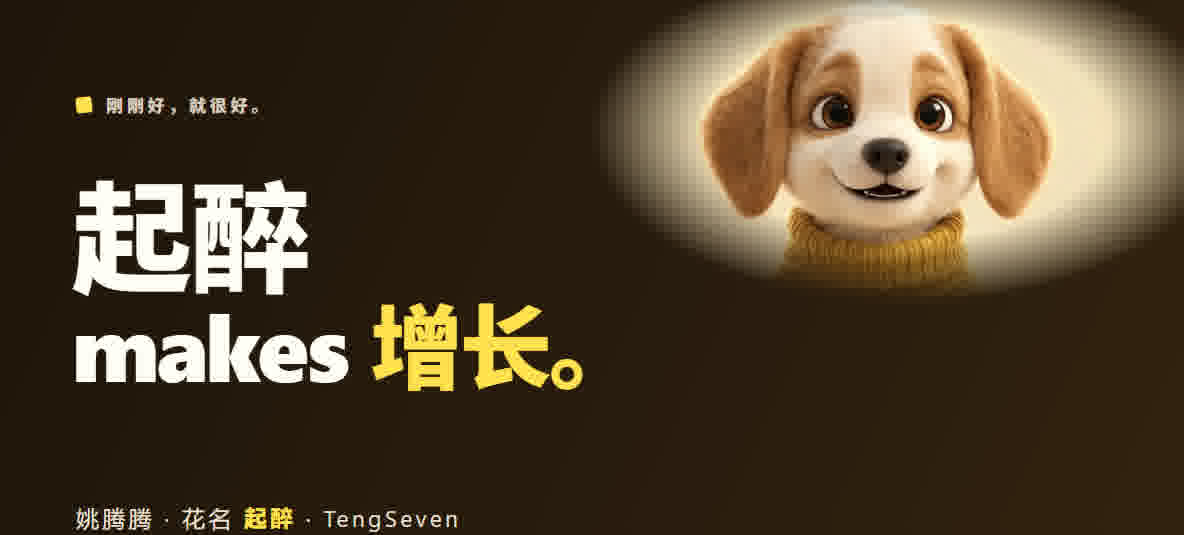
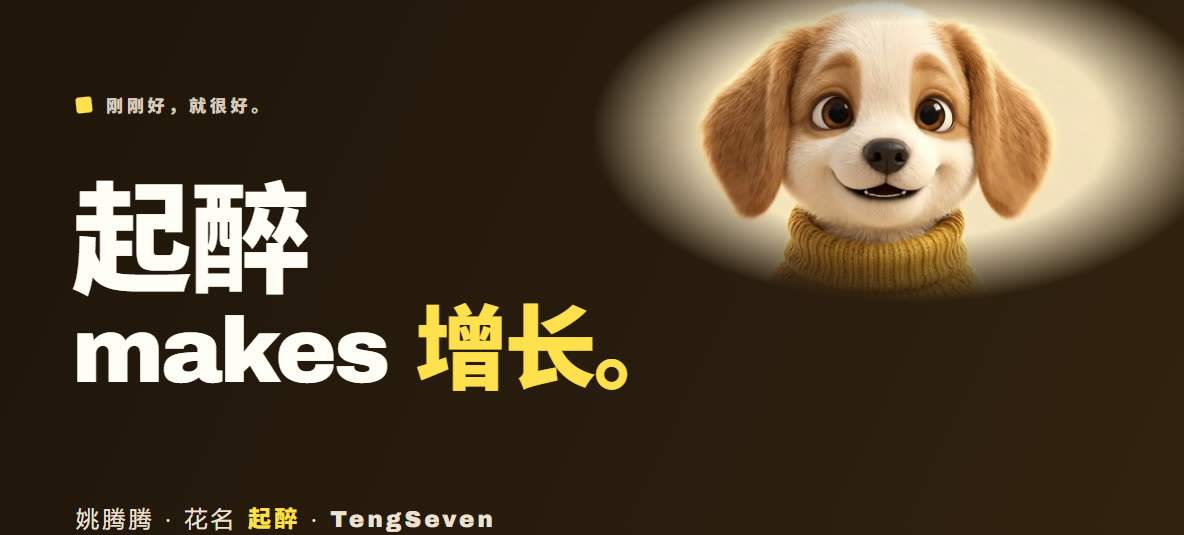
polish: 获奖级视觉冲刺 — 平板竖屏布局/移动端遮罩/拉丁展示字体/数字格stagger/卡片微倾/点击复制/追光与skip-link

diff --git a/index.html b/index.html
@@ -17,6 +17,8 @@
 /* T1 展示字体：Noto Sans SC Black 子集（SIL OFL 1.1，11.8KB），只收录展示位汉字；
    拉丁字母与数字刻意不在子集内 → 自动落到平台重黑（Win: Segoe UI Black / Mac: SF Black） */
 @font-face{font-family:"QZ Display";src:url("fonts/qz-display-900.woff2") format("woff2");font-weight:800 900;font-display:swap}
+/* 拉丁展示字体（Archivo Black，SIL OFL 1.1）：统一 makes/TengSeven/数字 在各平台的 900 黑体字形 */
+@font-face{font-family:"Archivo Black";src:url("fonts/archivo-black-latin.woff2") format("woff2");font-weight:800 900;font-display:swap}
 :root{
   --paper:#FAEFD6;
   --cream:#F2E4C9; /* 与 3D 小狗视频背景同族暖奶油 */
@@ -30,7 +32,7 @@
   --line-strong:rgba(26,26,26,.16);
   --ghost:rgba(26,26,26,.13);
   --sans:"Segoe UI","PingFang SC","HarmonyOS Sans SC","MiSans","Microsoft YaHei",system-ui,-apple-system,sans-serif;
-  --display:"QZ Display","Segoe UI",-apple-system,BlinkMacSystemFont,"PingFang SC","Microsoft YaHei",sans-serif;
+  --display:"QZ Display","Archivo Black","Segoe UI",-apple-system,BlinkMacSystemFont,"PingFang SC","Microsoft YaHei",sans-serif;
   --mono:ui-monospace,"Cascadia Code","SF Mono",Consolas,"PingFang SC","Microsoft YaHei",monospace;
   --ease:cubic-bezier(.16,1,.3,1);
   --maxw:1240px;
@@ -63,6 +65,10 @@ img{display:block}
 mark{background:linear-gradient(100deg,transparent 1%,var(--hl) 4%,var(--hl) 96%,transparent 99%);color:var(--ink);padding:0 .12em;border-radius:2px;-webkit-box-decoration-break:clone;box-decoration-break:clone}
 .ic{width:19px;height:19px;stroke:var(--ink);flex-shrink:0}
 .ic-badge{width:30px;height:30px}
+.skip-link{position:fixed;left:16px;top:-64px;z-index:300;background:var(--hl);color:var(--ink);font-weight:800;padding:10px 18px;border-radius:8px;transition:top .25s var(--ease)}
+.skip-link:focus-visible{top:16px}
+.copy-toast{position:fixed;left:50%;bottom:34px;transform:translate(-50%,16px);z-index:300;background:var(--ink);color:var(--paper);font-size:13.5px;font-weight:700;padding:10px 20px;border-radius:99px;opacity:0;transition:opacity .35s ease,transform .35s var(--ease);pointer-events:none}
+.copy-toast.show{opacity:1;transform:translate(-50%,0)}
 /* 展示位统一 900 重黑（汉字走 QZ Display 子集，拉丁/数字走平台重黑） */
 .hero-title,.tabs a,.prod-logo h3,.xp-role,.el-name,.nnum,.adv-num,.foot-ghost{font-family:var(--display)}
 .nw{white-space:nowrap}
@@ -156,9 +162,10 @@ mark{background:linear-gradient(100deg,transparent 1%,var(--hl) 4%,var(--hl) 96%
   padding:clamp(26px,3.6vw,52px);
   display:grid;grid-template-columns:5fr 6fr;gap:clamp(22px,3.6vw,56px);align-items:center;
   position:relative;overflow:hidden;
+  transform:translateY(var(--lift,0px)) perspective(900px) rotateX(var(--rx,0deg)) rotateY(var(--ry,0deg));
   transition:transform .35s var(--ease),box-shadow .35s;
 }
-.prod-card:hover{transform:translateY(-5px);box-shadow:0 24px 60px -30px rgba(26,26,26,.25)}
+.prod-card:hover{--lift:-5px;box-shadow:0 24px 60px -30px rgba(26,26,26,.25)}
 .prod-card .vig{width:100%;aspect-ratio:16/11;object-fit:contain;transform:rotate(-1.2deg);transition:transform .45s var(--ease)}
 .prod-card:hover .vig{transform:rotate(0deg) scale(1.02)}
 .prod-card h3{position:relative;padding-bottom:12px}
@@ -189,6 +196,10 @@ mark{background:linear-gradient(100deg,transparent 1%,var(--hl) 4%,var(--hl) 96%
 }
 .ncell{padding:clamp(16px,2vw,30px) clamp(10px,1.6vw,26px);border-left:1px solid var(--line)}
 .ncell:first-child{border-left:none;padding-left:clamp(12px,2vw,28px)}
+/* 数字格逐格入场（v4.6.4）：卡片 reveal 后按序浮现 */
+.js .num-card .ncell{opacity:0;transform:translateY(22px);transition:opacity .7s ease,transform .7s var(--ease);transition-delay:calc(var(--i,0)*70ms)}
+.js .num-card.in .ncell{opacity:1;transform:none}
+.ncell:nth-child(2){--i:1}.ncell:nth-child(3){--i:2}.ncell:nth-child(4){--i:3}.ncell:nth-child(5){--i:4}.ncell:nth-child(6){--i:5}
 .nnum{font-weight:900;font-size:clamp(34px,4.2vw,64px);line-height:1;letter-spacing:-.02em;white-space:nowrap;font-variant-numeric:tabular-nums;font-size:clamp(34px,4.2cqw,64px)} /* 后一声明覆盖：支持容器查询单位的浏览器按卡片实宽取值 */
 .nnum em{
   font-style:normal;font-size:.36em;margin-left:3px;padding:.06em .18em;border-radius:4px;
@@ -197,7 +208,8 @@ mark{background:linear-gradient(100deg,transparent 1%,var(--hl) 4%,var(--hl) 96%
 .nlabel{margin-top:12px;font-family:var(--sans);font-size:12.5px;color:var(--gray);letter-spacing:.05em;white-space:nowrap}
 .peek{position:relative;height:clamp(120px,15vh,170px);margin-top:clamp(14px,2.2vh,24px)}
 .peek-line{position:absolute;left:0;right:0;bottom:8px;width:100%;height:30px}
-.peek .pup-3d{position:absolute;right:10%;bottom:14px;width:clamp(150px,15vw,220px);-webkit-mask-image:radial-gradient(ellipse 52% 52% at 50% 55%,#000 42%,transparent 78%);mask-image:radial-gradient(ellipse 52% 52% at 50% 55%,#000 42%,transparent 78%)}
+.peek .pup-3d{position:absolute;right:10%;bottom:14px;width:clamp(150px,15vw,220px);-webkit-mask-image:radial-gradient(ellipse 52% 52% at 50% 55%,#000 42%,transparent 78%);mask-image:radial-gradient(ellipse 52% 52% at 50% 55%,#000 42%,transparent 78%);animation:pupBob 3.8s ease-in-out 1s infinite}
+@keyframes pupBob{0%,100%{transform:translateY(0)}50%{transform:translateY(-7px)}}
 
 /* ---------- 经历 ---------- */
 .xp-intro{max-width:36em;color:var(--ink-2);font-size:clamp(16px,1.5vw,17.5px);margin-bottom:clamp(36px,6vh,60px)}
@@ -228,9 +240,10 @@ mark{background:linear-gradient(100deg,transparent 1%,var(--hl) 4%,var(--hl) 96%
 .adv-card{
   background:var(--card);border:1px solid var(--line-strong);border-radius:18px;
   padding:clamp(20px,2.4vw,32px);
+  transform:translateY(var(--lift,0px)) perspective(900px) rotateX(var(--rx,0deg)) rotateY(var(--ry,0deg));
   transition:transform .3s var(--ease),box-shadow .3s;
 }
-.adv-card:hover{transform:translateY(-4px) rotate(-.4deg);box-shadow:0 18px 44px -24px rgba(26,26,26,.25)}
+.adv-card:hover{--lift:-4px;transform:translateY(-4px) rotate(-.4deg) perspective(900px) rotateX(var(--rx,0deg)) rotateY(var(--ry,0deg));box-shadow:0 18px 44px -24px rgba(26,26,26,.25)}
 /* 序号改描边数字（与幽灵序号同一套语言），黄色只留给重点字（stage v4.6 K） */
 .adv-num{
   font-weight:900;font-size:clamp(40px,3.4vw,54px);line-height:1;display:inline-block;
@@ -260,7 +273,7 @@ mark{background:linear-gradient(100deg,transparent 1%,var(--hl) 4%,var(--hl) 96%
 .el-row{
   display:flex;align-items:center;gap:clamp(16px,2.6vw,30px);
   padding:clamp(16px,2.6vh,26px) 6px;border-bottom:1px solid var(--line-strong);
-  transition:background .25s;
+  transition:background .25s;cursor:pointer;
 }
 .el-row:first-child{border-top:1px solid var(--line-strong)}
 .el-row:hover{background:var(--card)}
@@ -283,8 +296,8 @@ footer{padding-block:clamp(60px,10vh,110px) 40px;position:relative;overflow:hidd
 .foot-line .hl-text{font-weight:800;color:var(--ink);background:linear-gradient(100deg,transparent 1%,var(--hl) 4%,var(--hl) 96%,transparent 99%);padding:0 .3em}
 
 /* ---------- 动效 ---------- */
-.js .reveal{opacity:0;transform:translateY(26px);transition:opacity .8s ease,transform .8s var(--ease);transition-delay:var(--d,0s)}
-.js .reveal.in{opacity:1;transform:none}
+.js .reveal{opacity:0;translate:0 26px;transition:opacity .8s ease,translate .8s var(--ease);transition-delay:var(--d,0s)}
+.js .reveal.in{opacity:1;translate:0 0}
 /* 荧光笔随浮现从左划过（只动 background-size，一次性，stage v4.6 M） */
 .js .reveal mark{background-size:0% 100%;background-repeat:no-repeat;transition:background-size .9s var(--ease) .35s}
 .js .reveal.in mark{background-size:100% 100%}
@@ -369,6 +382,18 @@ html.is-booting{overflow:hidden}
 @media (max-width:1366px){.hero-stats dd{font-size:20px}.hero-stats div{padding:0 14px}}
 .hero .wrap.is-rolling{will-change:transform,opacity}
 
+/* ---------- 平板竖屏（761px+ 且竖屏）：上文下狗，避免白字压亮毛 ---------- */
+@media (min-width:761px) and (max-aspect-ratio:1/1){
+  .hero{justify-content:flex-start;padding-top:110px;padding-bottom:64px}
+  .hero .wrap{grid-template-columns:1fr 1fr;align-items:start;gap:28px 44px}
+  .hero-col-l,.hero-col-r{grid-column:auto}
+  .hero-col-r{padding-top:clamp(20px,5vh,60px)}
+  .hero-title{font-size:clamp(44px,7.6vw,84px)}
+  .pup-bg video{width:150vw;height:auto;left:50%;top:auto;bottom:-6vh;transform:translateX(-50%);
+    -webkit-mask-image:linear-gradient(to bottom,transparent 0,#000 28%);mask-image:linear-gradient(to bottom,transparent 0,#000 28%)}
+  .scroll-cue{display:none}
+}
+
 /* ---------- 响应式 ---------- */
 @media (max-width:1024px){
   .num-card{grid-template-columns:repeat(3,1fr)}
@@ -388,10 +413,11 @@ html.is-booting{overflow:hidden}
   .hero-stats dd{font-size:24px}
   .pup-bg video{
     width:240vw;height:auto;left:50%;top:auto;bottom:-16vh;transform:translateX(-50%);
-    -webkit-mask-image:linear-gradient(to bottom,transparent 0,#000 24%);
-    mask-image:linear-gradient(to bottom,transparent 0,#000 24%);
+    -webkit-mask-image:linear-gradient(to bottom,transparent 0,#000 38%);
+    mask-image:linear-gradient(to bottom,transparent 0,#000 38%);
   }
-  .pup-bg::after{height:22%}
+  .pup-bg::after{position:absolute;left:0;right:0;top:0;height:42%;z-index:1;pointer-events:none;
+    background:linear-gradient(to bottom,#2A1C0F 0%,rgba(42,28,15,.9) 45%,rgba(42,28,15,0) 100%)}
   .scroll-cue{display:none}
   .num-card{grid-template-columns:1fr 1fr}
   .ncell:nth-child(even){border-left:1px solid var(--line)}
@@ -405,12 +431,13 @@ html.is-booting{overflow:hidden}
 }
 @media (prefers-reduced-motion:reduce){
   *,*::before,*::after{animation:none!important;transition:none!important}
-  .js .reveal{opacity:1;transform:none}
+  .js .reveal{opacity:1;translate:0 0}
   .curve-draw path{stroke-dashoffset:0}
   /* 入场序列全部静止就位（恢复初始隐藏态） */
   .js .hero-title .lift,.js .pup-bg,
   .js .hero-byline,.js .hero-sub,.js .scroll-cue,.js .hero-stats,
   .js .corner,.js .rail,.js .rail-num{opacity:1;transform:none;clip-path:none}
+  .js .num-card .ncell{opacity:1;transform:none}
   .js .reveal mark{background-size:100% 100%}
   .site-loader{display:none!important}
   html.is-booting{overflow:auto}
@@ -424,6 +451,7 @@ a:focus-visible,button:focus-visible{outline:2.5px solid var(--ink);outline-offs
   document.documentElement.classList.add('js');
   if (!matchMedia('(prefers-reduced-motion: reduce)').matches) document.documentElement.classList.add('is-booting');
 </script>
+<a class="skip-link" href="#products">跳到正文</a>
 
 <!-- 入场 loader：只等 poster（v4.6.1 方案A，与视频解耦）后整块上滑退出；视频就绪前 hero 显示同帧 poster -->
 <div class="site-loader" id="siteLoader" aria-hidden="true">
@@ -929,6 +957,54 @@ a:focus-visible,button:focus-visible{outline:2.5px solid var(--ink);outline-offs
     hero.addEventListener("pointerenter", function(){ on = true; hero.classList.add("spot-on"); kick(); });
     hero.addEventListener("pointerleave", function(){ on = false; hero.classList.remove("spot-on"); });
     hero.addEventListener("pointermove", function(e){ tx = e.clientX; ty = e.clientY; kick(); }, { passive: true });
+  })();
+
+  /* ---------- 卡片指针微倾（v4.6.4）：±1.2° 视差，transform-only，收敛即停，reduced-motion/触屏不创建 ---------- */
+  (function(){
+    if (reduced || !hoverFine) return;
+    document.querySelectorAll(".prod-card,.adv-card").forEach(function(card){
+      var raf = false, tx = 0, ty = 0, cx = 0, cy = 0, rect = null;
+      function step(){
+        cx += (tx - cx) * .18; cy += (ty - cy) * .18;
+        card.style.setProperty("--ry", cx.toFixed(2) + "deg");
+        card.style.setProperty("--rx", cy.toFixed(2) + "deg");
+        if (Math.abs(tx - cx) + Math.abs(ty - cy) > .02) requestAnimationFrame(step); else raf = false;
+      }
+      function kick(){ if (!raf){ raf = true; requestAnimationFrame(step); } }
+      card.addEventListener("pointerenter", function(){ rect = card.getBoundingClientRect(); });
+      card.addEventListener("pointermove", function(e){
+        if (!rect) rect = card.getBoundingClientRect();
+        tx = (.5 - (e.clientX - rect.left) / rect.width) * 2.4;
+        ty = ((e.clientY - rect.top) / rect.height - .5) * 1.8;
+        kick();
+      }, { passive: true });
+      card.addEventListener("pointerleave", function(){ tx = 0; ty = 0; kick(); });
+    });
+  })();
+
+  /* ---------- 交流区点击复制 handle（v4.6.4）：clipboard API + execCommand 兜底 ---------- */
+  (function(){
+    function toast(msg){
+      var d = document.createElement("div"); d.className = "copy-toast"; d.setAttribute("role", "status"); d.textContent = msg;
+      document.body.appendChild(d);
+      requestAnimationFrame(function(){ d.classList.add("show"); });
+      setTimeout(function(){ d.classList.remove("show"); setTimeout(function(){ d.remove(); }, 400); }, 1500);
+    }
+    function copyText(txt){
+      if (navigator.clipboard && navigator.clipboard.writeText) return navigator.clipboard.writeText(txt);
+      return new Promise(function(res, rej){
+        var ta = document.createElement("textarea"); ta.value = txt; ta.style.cssText = "position:fixed;opacity:0";
+        document.body.appendChild(ta); ta.select();
+        try { document.execCommand("copy") ? res() : rej(); } catch(e){ rej(e); } finally { ta.remove(); }
+      });
+    }
+    document.querySelectorAll(".el-row").forEach(function(row){
+      row.addEventListener("click", function(){
+        var t = row.querySelector(".el-handle"); if (!t) return;
+        var txt = t.textContent.trim();
+        copyText(txt).then(function(){ toast("已复制 " + txt); }, function(){ toast(txt); });
+      });
+    });
   })();
 })();
 </script>

diff --git a/og-card.html b/og-card.html
@@ -4,8 +4,9 @@
 <meta charset="UTF-8">
 <style>
 @font-face{font-family:"QZ Display";src:url("fonts/qz-display-900.woff2") format("woff2");font-weight:800 900}
+@font-face{font-family:"Archivo Black";src:url("fonts/archivo-black-latin.woff2") format("woff2");font-weight:800 900}
 *{margin:0;box-sizing:border-box}
-body{width:1200px;height:630px;overflow:hidden;position:relative;background:linear-gradient(115deg,#20150B 0%,#2A1C0F 62%,#33220f 100%);font-family:"QZ Display","Segoe UI","PingFang SC","Microsoft YaHei",sans-serif}
+body{width:1200px;height:630px;overflow:hidden;position:relative;background:linear-gradient(115deg,#20150B 0%,#2A1C0F 62%,#33220f 100%);font-family:"QZ Display","Archivo Black","Segoe UI","PingFang SC","Microsoft YaHei",sans-serif}
 .dog{position:absolute;right:-40px;top:-56px;width:720px;-webkit-mask-image:radial-gradient(ellipse 58% 56% at 54% 46%,#000 48%,transparent 76%);mask-image:radial-gradient(ellipse 58% 56% at 54% 46%,#000 48%,transparent 76%)}
 .tag{position:absolute;left:76px;top:92px;display:flex;align-items:center;gap:14px;color:rgba(255,244,224,.82);font-size:17px;letter-spacing:.22em}
 .tag i{width:16px;height:16px;background:#FFE04D;border-radius:3px;transform:rotate(-6deg)}

diff --git a/fonts/README.md b/fonts/README.md
@@ -4,3 +4,8 @@
 - 版权：© 2014-2021 Adobe (http://www.adobe.com/), with Reserved Font Name 'Source'.
 - 许可：SIL Open Font License 1.1（https://openfontlicense.org）。本文件是其子集 + wght 900 静态实例（OFL 意义上的 Modified Version），按 OFL 1.1 随站分发；字体内部 name 表保留了原版权与许可声明；字体族名仍为 Noto Sans SC，未使用保留名「Source」。
 - 内容：仅 81 个展示位汉字与中文标点，13.6KB（v4.6 用到 69 个；v4.7 追加毛小暖标语、渠道墙、谢幕标语用字）。重新生成：`python ../mkfont.py`
+
+## Archivo Black (latin subset)
+Archivo Black (c) Omnibus-Type — SIL Open Font License 1.1
+https://github.com/Omnibus-Type/ArchivoBlack
+子集：ASCII 0x20-0x7E，woff2，仅展示位拉丁字符使用。
